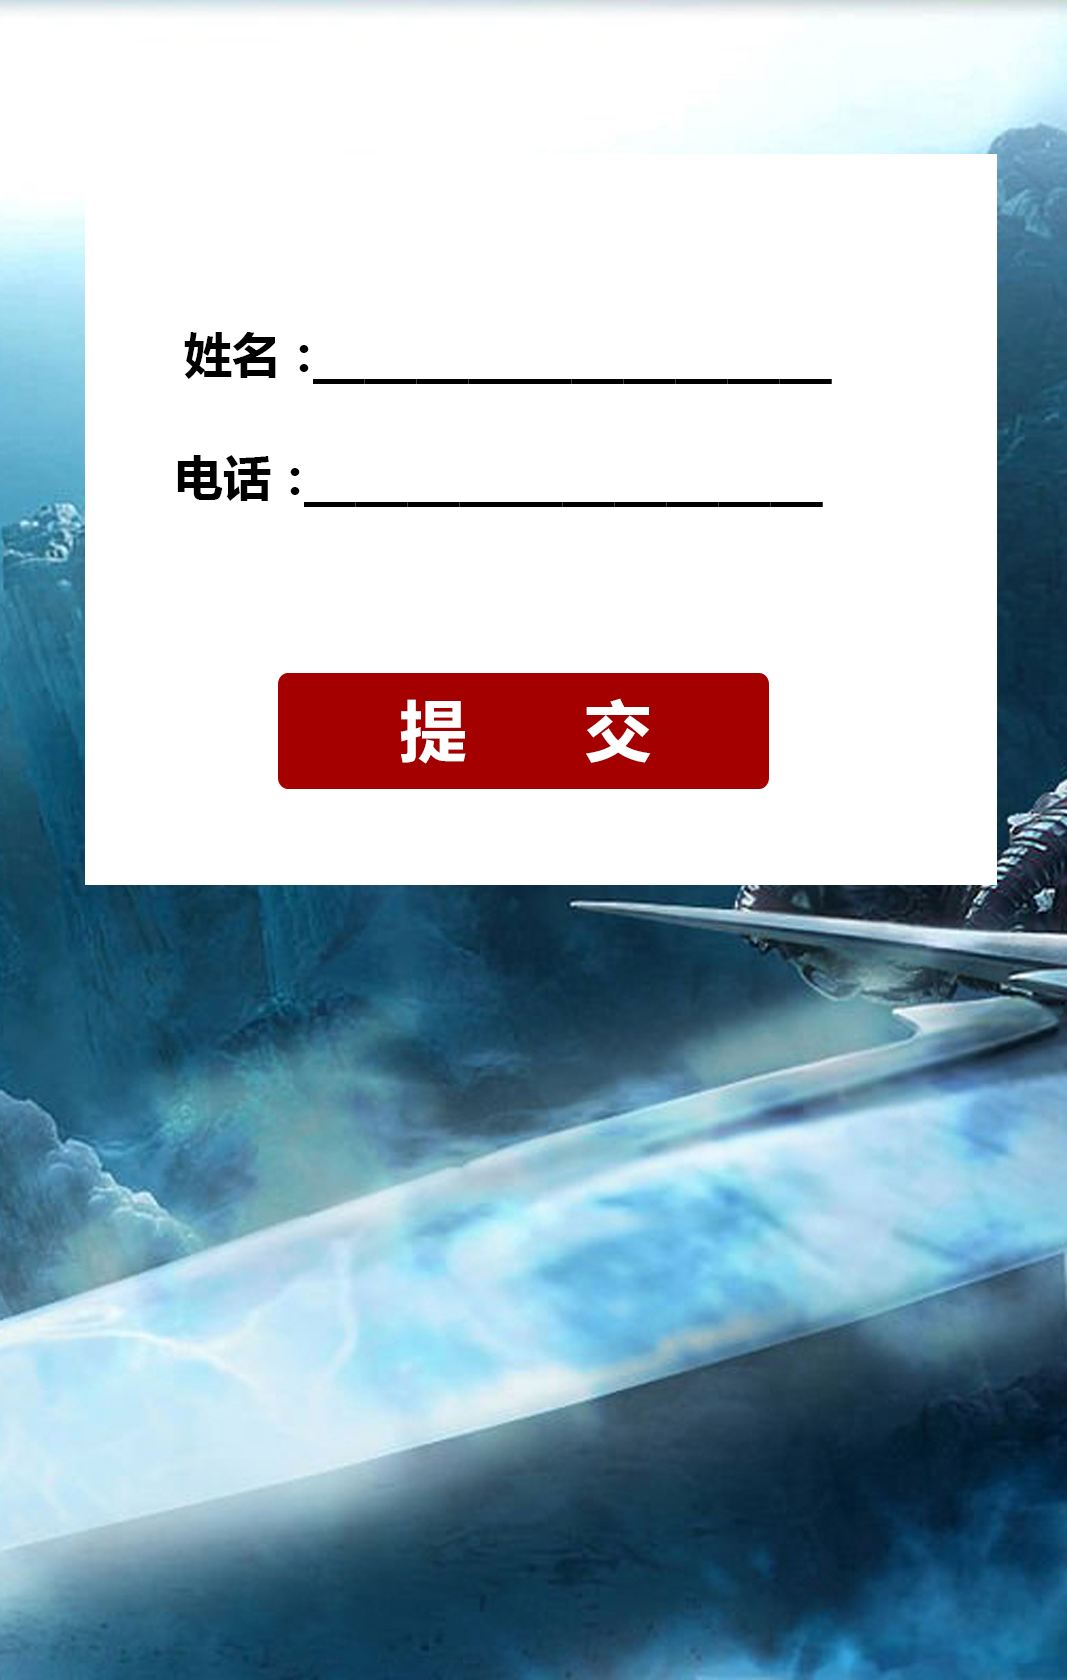
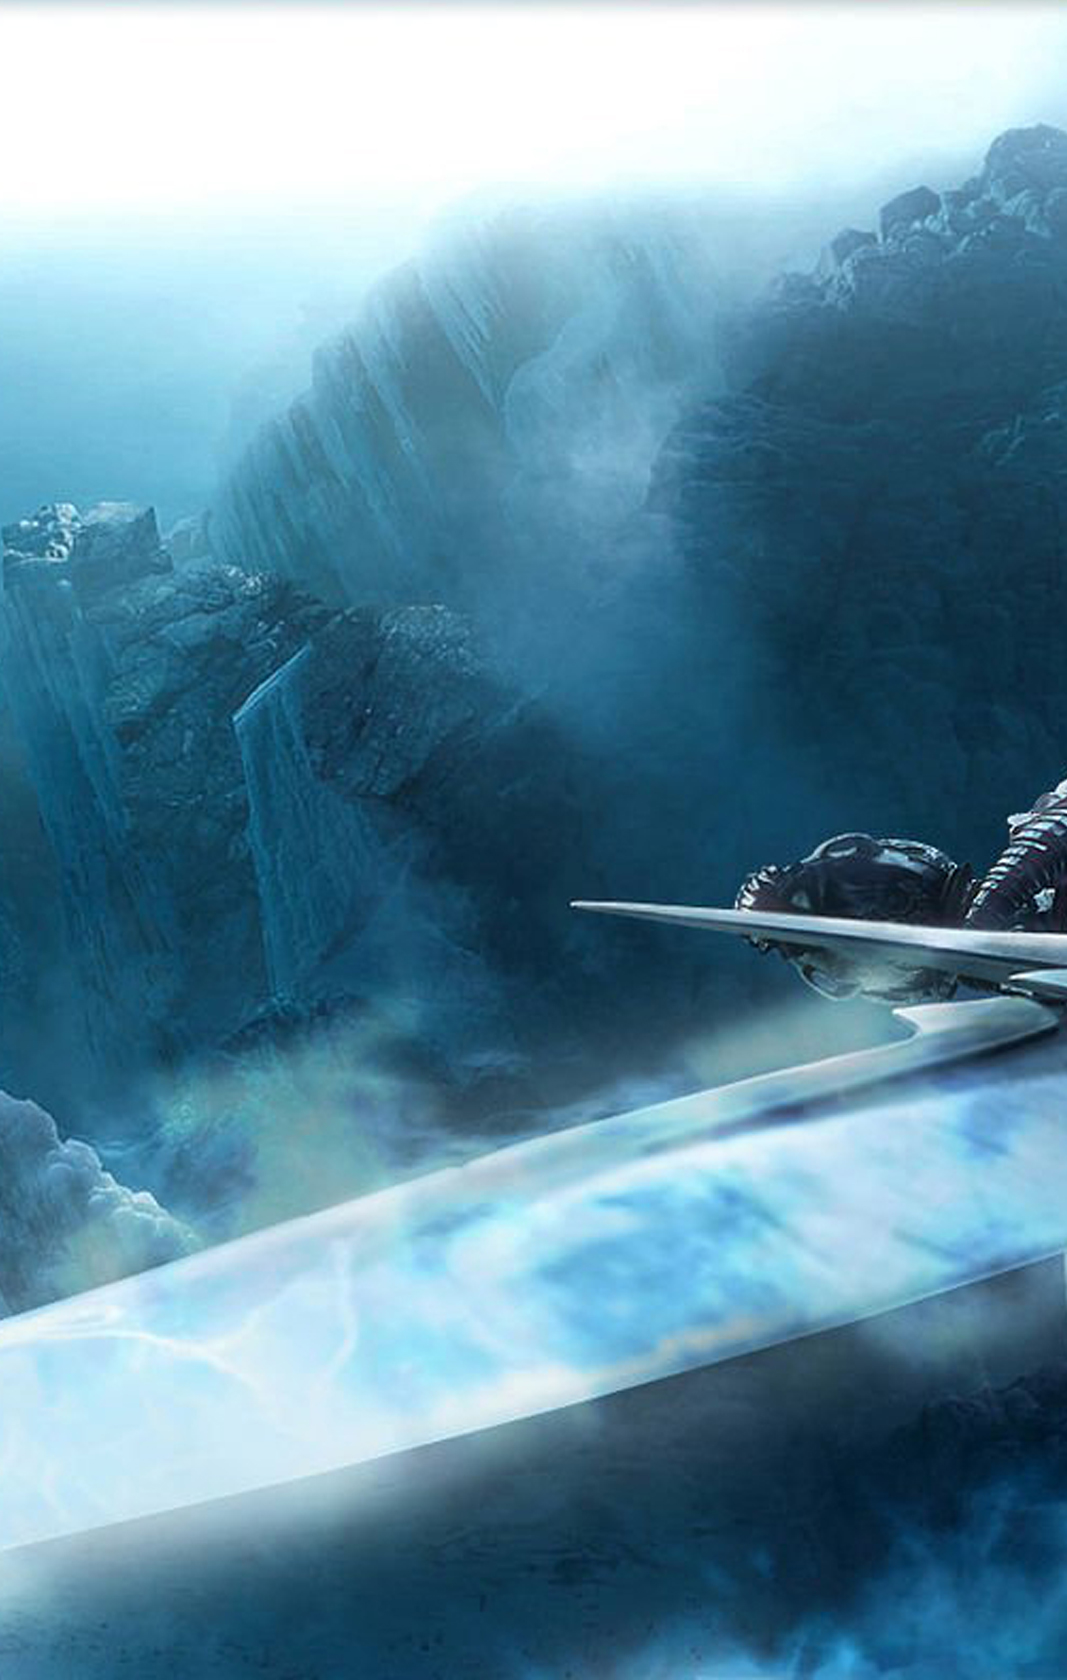
测试代码

diff --git a/fans-bs-web/src/main/webapp/football/index.html b/fans-bs-web/src/main/webapp/football/index.html
@@ -5,10 +5,12 @@
 	<meta name="viewport" content="width=device-width,initial-scale=1.0,minimum-scale=1.0,maximum-scale=1.0,user-scalable=no">
 	<meta property="fb:app_id" content="112406602201164" />
 	<meta property="og:image" content="" />
-	<meta property="og:title" content="我就是我" />
+	<meta property="og:title" content="够胆你就来，魔兽大战足球，挑战成功即可免费获得电影票！" />
 	<meta property="og:type" content="website" />
 	<title>够胆你就来，魔兽大战足球，挑战成功即可免费获得电影票！</title>
-	<script src="js/jquery-1.11.3.min.js"></script>
+	<link rel="stylesheet" href="http://apps.bdimg.com/libs/jquerymobile/1.4.5/jquery.mobile-1.4.5.min.css">
+	<script src="http://apps.bdimg.com/libs/jquery/1.10.2/jquery.min.js"></script>
+	<script src="http://apps.bdimg.com/libs/jquerymobile/1.4.5/jquery.mobile-1.4.5.min.js"></script>
 	<script src="js/sound.js" type="text/javascript"></script>
 	<script type="text/javascript" src="js/lufylegend-1.9.7.min.js"></script>
 	<script type="text/javascript" src="js/lufylegend.ui-0.10.0.min.js"></script>
@@ -25,6 +27,7 @@
 		.hidden{display:none;}
 		.aliForPc {display:none;position:fixed;top:5px;right:5px;width:200px;height:230px;overflow:hidden;z-index:99999;}
 		.submit {top: 40%; display: block; font-size:100px;position: absolute;z-index:999; width: 50%; height: 7%; left: 24%;background-color:transparent;border-style:none;}
+		.submitnew {top: 40%; display: block; font-size:100px;position: absolute;z-index:999; width: 100%; height: 100%; left: 24%;}
 	</style>
 </head>
 <body style="width:640px;margin:0px auto;padding:0px 0px 0px 0px;background-color:#000000;">
@@ -33,7 +36,7 @@
 <link href="css/sprite.css" rel="stylesheet" type="text/css"/>
 <div style="position: absolute;right:0px;top:0px;max-width: 640px;margin: 0 auto;left: 0;height:1px;">
 	<img id="myimg" src="images/174232_1708.png" onclick="toggleFrdlist();"/>
-	<div style="margin:10px 0 0 0;">
+	<div style="margin:10px 0 0 0;color:#ff0000;">
 		我就是我<br/>人品值：999	</div>
 	<div id="frdlist">
 		<ul>
@@ -96,18 +99,15 @@
 		if(a>0){
 		}
 	};
-	function showRules(){
-		document.getElementById("gameRulesDiv").style.display = "";
-	}
+
 	function hideButton(){
-		document.getElementById("rulesBtnDiv").style.display = "none";
-		document.getElementById("seePaiMingBtnDiv").style.display = "none";
+
 	}
 	function showPaiming(){
 		$.ajax({
 			async : false,
 			type: "post",
-			url: url+"/fans-bs-web/common/qryFootBallScores",
+			url: url+"/common/qryFootBallScores",
 			data : {
 			},
 			dataType : "json",
@@ -143,27 +143,28 @@
 	}
 
 	function saveScore(){
-		var userName = document.getElementById("userName").value;
-		var userPhone = document.getElementById("phone").value;
-		if(userName==""){
+		var userName = $("#userName").val();
+		var userPhone = $("#phone").val();
+		if(userName==""||userName=="undifined"){
 			alert("请填写正确姓名！");
 			return;
 		}
-		if(userPhone==""){
+		if(userPhone==""||userName=="undifined"){
 			alert("请填写正确电话！");
 			return;
 		}
-		if(userScore<10000){
+		alert("userName:"+userName+" userPhone:"+userPhone);
+		if(scores<10){
 			alert("您的得分不够，请继续努力！");
 			document.getElementById("writeUserDiv").style.display = "none";
-			document.getElementById("userName").value = "";
-			document.getElementById("phone").value = "";
+			$("#userName").val("");
+			 $("#phone").val("");
 			return;
 		}
 		$.ajax({
 			async : false,
 			type: "post",
-			url: url+"/fans-bs-web/common/addFootBallScore",
+			url: url+"/common/addFootBallScore",
 			data : {
 				name : userName,
 				phone :userPhone,
@@ -185,35 +186,66 @@
 			}
 		});
 	}
+	$(document).ready(function(){
+		$("#gameRulesDiv").bind("click",function(){
+			$("#indexBtn").show();
+			$("#gameRulesDiv").hide();
+		});
 
+		$("#beginGame1").on("tap",function(){
+			$("#gameRulesDiv").hide();
+			$("#indexBtn").hide();
+			游戏开始();
+		});
+
+		$("#beginBtn2").on("tap",function(){
+			$("#gameRulesDiv").hide();
+			$("#indexBtn").hide();
+			游戏开始();
+		});
+		$("#rulesBtn").on("click",function(){
+			$("#gameRulesDiv").show();
+		});
+		$("#rulesBtn").on("tap",function(){
+			$("#indexBtn").hide();
+			$("#gameRulesDiv").show();
+		});
+
+		$("#userNameSpan").html("<input id=userName type=text value='liooo' style='width: 70%;'/>");
+		$("#phoneSpan").html("<input id=phone type=text value='18890900909'  style='width: 70%;'/>");
+		$("#saveScoreSpan").html("<input id=saveScore type=button value='提   交' onclick='saveScore();' style='background:#43CD80'/>");
+
+		$("#saveScore").on("tap",function(){
+			saveScore();
+		});
+	});
 </script>
 <div id=share style="display: none">
 
 </div>
-<div id="rulesBtnDiv" style="position:absolute;display: block;top: 20%;left: 2%;" onclick="showRules();">
-	<img id="myimg" src="images/game_rules.png" onclick="showRules();" style="width: 20%; height: 20%;"/>
-</div>
-<div id="seePaiMingBtnDiv" style="position:absolute;display: block;top: 50%;left: 2%;" onclick="showPaiming();">
-	<img id="myimg" src="images/see_paiming.png" onclick="showPaiming();" style="width: 20%; height: 20%;"/>
-</div>
-<div id="gameRulesDiv" style="position:absolute;display: none;top: 0px;width:100%;height:100%;">
-	<img id="gameRulesImg" src="gamerules.jpg" style="width: 100%; height: 100%;" onclick="hideGameReules();"/>
+<div id="gameRulesDiv" style="position:absolute;background:url(gamerules.jpg);background-size:cover;display: none;top: 0%;width:100%;height:100%;">
+	<div id="beginGame1" style="position:absolute;top: 85%;left: 33%;display:block;width:100px;height:40px;background:url(begin_btn.png);background-size:cover;"></div>
 </div>
 
-<div id="paimingDiv" style="position:absolute;display: none;background:url(beijing.jpg); top: 0px;left:0%;width:100%;height:100%;" onclick="hidePaiming();">
+<div id="paimingDiv" style="position:absolute;display: none;background:url(beijing.jpg);background-size:contain; top: 0px;left:0%;width:100%;height:100%;" onclick="hidePaiming();">
 		<span id="scores" style="color:red;vertical-align:middle;">
 		</span>
 </div>
 
-<div id="writeUserDiv" style="position:absolute;z-index:99;display: none;background-size: 100% auto; top: 0px;width:100%;height:100%;">
+<div id="writeUserDiv" style="position:absolute;z-index:99999;display: none;background-size: 100% auto; top: 0px;width:100%;height:100%;">
 	<img id="gameRulesImg" src="write_user_info.jpg" style="width: 100%; height: 100%;"/>
-	<input id="userName" type="text" value="" style="top: 18%; display: block; position: absolute; left: 29%; width: 50%; height: 5%;"/>
-	<input id="phone" type="text" value="" style="top: 25%; display: block; position: absolute; width: 50%; height: 5%; left: 28%;"/>
-
-	<div>
-		<input id="saveScore" type="button" value=" &nbsp &nbsp &nbsp &nbsp &nbsp &nbsp &nbsp" class="submit" onclick="saveScore();"/>
+	<div style="position: absolute;top: 18%;left: 10%;width: 80%;filter:alpha(Opacity=90);-moz-opacity:0.9;opacity: 0.9;background: -ms-linear-gradient(top, #FFAF60, #030303);background:-webkit-gradient(linear, 0% 0%, 0% 100%,from(#030303), to(#FFAF60));">
+		<ul style="list-style:none;">
+			<li style="margin-top:10%;"><span>姓名：</span><span id="userNameSpan"></span></li>
+			<li style="margin-top:10%;"><span>电话：</span><span id="phoneSpan"></span></li>
+			<li style="margin-top:10%;margin-left:25%;"><span></span><span id="saveScoreSpan"></span></li>
+		</ul>
 	</div>
-	<input id="userScore" type="hidden" value=""/>
+</div>
+
+<div id="indexBtn" style="position:absolute;z-index:9999;display: block;top: 72%;left: 0%;width:98.5%;height:35%;filter:alpha(Opacity=90);-moz-opacity:0.9;opacity: 0.9;background: -ms-linear-gradient(top, #FFAF60, #030303);background:-webkit-gradient(linear, 0% 0%, 0% 100%,from(#030303), to(#030303));">
+	<div id="beginBtn2" style="top: 5%;left: 35%;position:absolute;display:block;width:35%;height:22%;background:url(begin_btn.png);background-size:cover;"></div>
+	<div id="rulesBtn" style="top: 30%;left: 35%;position:absolute;display:block;width:35%;height:22%;background:url(game_rules.png);background-size:cover;"></div>
 </div>
 
 </body>

diff --git a/fans-bs-web/src/main/webapp/football/js/Main.js b/fans-bs-web/src/main/webapp/football/js/Main.js
@@ -907,7 +907,7 @@ function 游戏结束(){
 	俺.overLayer.addChild(more);
 	scores = 苦运行角色.distanceObj.value;
 	more.addEventListener(LMouseEvent.MOUSE_UP, function(){
-		if(scores>10000){
+		if(scores>10){
 			//弹出填写姓名电话号码框
 			showUserInput(苦运行角色.distanceObj.value);
 		}else{
